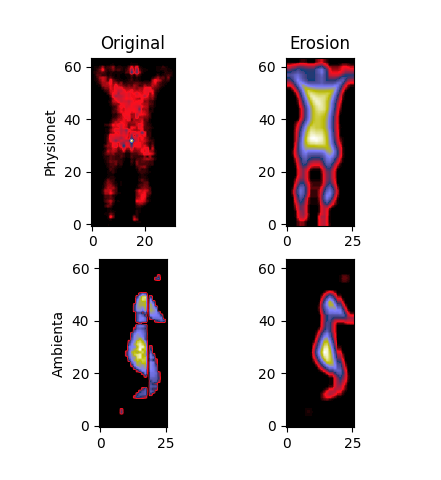
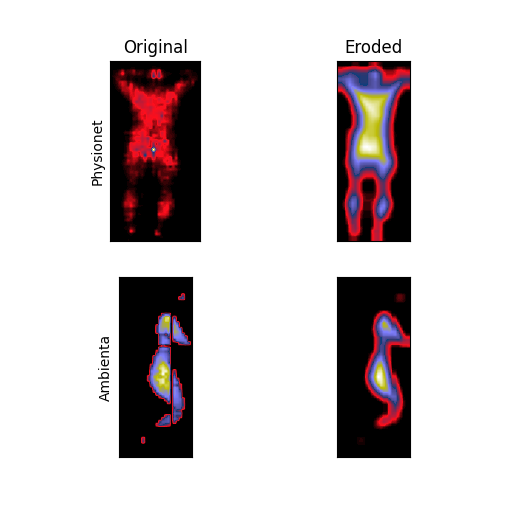
Update visualizations

diff --git a/visualizations.py b/visualizations.py
@@ -49,13 +49,13 @@ trans = [
 
 trans_labels = [
     "Original",
-    "Resize",
-    "Normalize",
-    "Equalize Histogram",
-    "Gaussian Blur",
-    "Erosion",
-    "Erosion",
-    "Erosion",
+    "Resized",
+    "Normalized",
+    "Equalized Histogram",
+    "Gaussian Blurred",
+    "Eroded",
+    "Eroded",
+    "Eroded",
 ]
 
 transform1 = torchvision.transforms.Compose(trans[:1])
@@ -70,11 +70,54 @@ num_plots_per_row = 4
 images_per_dataset = 1
 
 samples = [train_dataset1[128], train_dataset2[128]]
+
+# fig = plt.figure(figsize=(4, 2))
+# subfigs = fig.subfigures(1, 2, wspace=0)
+
+# subfigs[0].suptitle('Original', fontsize='x-large')
+# axsLeft = subfigs[0].subplots(2, 2)
+# # subfigs[0].set_facecolor('0.75')
+# # subfigs[0].colorbar(pc, shrink=0.6, ax=axsLeft, location='bottom')
+# for nn, row in enumerate(axsLeft):
+#     sample = samples[0 if nn == 0 else 1]
+#     if nn == 0:
+#         row[0].set_ylabel('Physionet')
+#     else:
+#         row[0].set_ylabel('Ambienta')
+#     transform = torchvision.transforms.Compose([])
+#     row[0].imshow(transform(sample)[0][0], origin="lower", cmap="gist_stern")
+#     row[0].set_xticks([], [])
+#     row[0].set_yticks([], [])
+#     if nn == 0:
+#         row[0].set_title("Image")
+#         row[1].set_title("Histogram")
+#     row[1].hist(transform(sample)[0][0].ravel(), bins=50, color="#777777")
+
+# subfigs[1].suptitle('Normalized Values', fontsize='x-large')
+# axsRight = subfigs[1].subplots(2, 2)
+# for nn, row in enumerate(axsRight):
+#     transform = torchvision.transforms.Compose(trans[:2])
+#     sample = samples[0 if nn == 0 else 1]
+#     row[0].imshow(transform(sample)[0][0], origin="lower", cmap="gist_stern")
+#     row[0].set_xticks([], [])
+#     row[0].set_yticks([], [])
+#     if nn == 0:
+#         row[0].set_title("Image")
+#         row[1].set_title("Histogram")
+#     row[1].hist(transform(sample)[0][0].ravel(), bins=50, color="#777777")
+
+# subfigs[1].set_facecolor('0.85') # Changes the background of the subfigure
+# subfigs[1].colorbar(pc, shrink=0.6, ax=axsRight)
+
+# fig.suptitle('Figure suptitle', fontsize='xx-large')
+
 fig, axs = plt.subplots(2, 2)
 for sample, row, row_nr in zip(samples, axs, range(len(axs))):
     for i, ax in enumerate(row):
         transform = torchvision.transforms.Compose(trans[:0 if i == 0 else 5])
         ax.imshow(transform(sample)[0][0], origin="lower", cmap="gist_stern")
+        ax.set_xticks([], [])
+        ax.set_yticks([], [])
         if row_nr == 0:
             ax.set_title(trans_labels[0 if i == 0 else 5])
         if i == 0 and row_nr == 0:

diff --git a/main.py b/main.py
@@ -12,10 +12,19 @@ from torch.utils.data import (
 
 from utils.dataset import PhysionetDataset, AmbientaDataset, classes
 from utils.model import ConvNet
-from utils.transforms import Blur, Close, Erode, ToTensor, Resize, Threshold, Normalize, EqualizeHist
+from utils.transforms import (
+    Blur,
+    Close,
+    Erode,
+    ToTensor,
+    Resize,
+    Threshold,
+    Normalize,
+    EqualizeHist,
+)
 from sklearn.metrics import confusion_matrix
 import pandas as pd
-from utils.plot_cm import plot_confusion_matrix
+from utils.plot_cm import plot_confusion_matrix, plot_class_weights
 
 ################
 #
@@ -63,15 +72,35 @@ print(f"Number of training samples: {len(train_dataset)}")
 print(f"Number of testing samples: {len(test_dataset)}")
 
 # Over- & Undersampling
-labels = np.concatenate([train_dataset.datasets[0].y, train_dataset.datasets[1].y])
-_, class_counts = np.unique(labels, return_counts=True)
-print(class_counts)
-print(class_counts.sum())
-weights = np.asarray([1.0 / class_counts[c] for c in labels])
+train_labels = np.concatenate(
+    [train_dataset.datasets[0].y, train_dataset.datasets[1].y]
+)
+test_labels = np.concatenate([test_dataset.datasets[0].y, test_dataset.datasets[1].y])
+_, train_class_counts = np.unique(train_labels, return_counts=True)
+_, test_class_counts = np.unique(test_labels, return_counts=True)
+
+plot_class_weights(
+    [
+        train_class_counts / train_class_counts.sum(),
+        test_class_counts / test_class_counts.sum(),
+    ],
+    classes,
+    [
+        "Training Data Class Weights",
+        "Test Data Class Weights",
+    ],
+)
+plt.show()
+
+print(train_class_counts / train_class_counts.sum())
+print(test_class_counts / test_class_counts.sum())
+print(train_class_counts.sum())
+print(test_class_counts.sum())
+weights = np.asarray([1.0 / train_class_counts[c] for c in train_labels])
 train_sampler = WeightedRandomSampler(
     weights=weights, num_samples=len(weights), replacement=True
 )
-
+exit()
 # train_size = int(train_size_percentage * len(dataset))
 # test_size = len(dataset) - train_size
 # train_dataset, test_dataset = random_split(dataset, [train_size, test_size])
@@ -160,7 +189,7 @@ with torch.no_grad():
         print(f"Accuracy of {classes[i]}: {acc:.4f}%")
 
     conf_mat = confusion_matrix(np.concatenate(lbllist), np.concatenate(predlist))
-    plt.figure(figsize=(10,10))
+    plt.figure(figsize=(10, 10))
     plot_confusion_matrix(conf_mat, classes, normalize=True)
     plt.show()
 

diff --git a/utils/plot_cm.py b/utils/plot_cm.py
@@ -3,26 +3,54 @@ import numpy as np
 import matplotlib.pyplot as plt
 
 # from https://deeplizard.com/learn/video/0LhiS6yu2qQ
-def plot_confusion_matrix(cm, classes, normalize=False, title='Confusion matrix', cmap=plt.cm.Blues):
+def plot_confusion_matrix(
+    cm, classes, normalize=False, title="Confusion matrix", cmap=plt.cm.Blues
+):
     if normalize:
-        cm = cm.astype('float') / cm.sum(axis=1)[:, np.newaxis]
+        cm = cm.astype("float") / cm.sum(axis=1)[:, np.newaxis]
         print("Normalized confusion matrix")
     else:
-        print('Confusion matrix, without normalization')
+        print("Confusion matrix, without normalization")
 
     print(cm)
-    plt.imshow(cm, interpolation='nearest', cmap=cmap)
+    plt.imshow(cm, interpolation="nearest", cmap=cmap)
     plt.title(title)
     plt.colorbar()
     tick_marks = np.arange(len(classes))
     plt.xticks(tick_marks, classes, rotation=45)
     plt.yticks(tick_marks, classes)
 
-    fmt = '.2f' if normalize else 'd'
-    thresh = cm.max() / 2.
+    fmt = ".2f" if normalize else "d"
+    thresh = cm.max() / 2.0
     for i, j in itertools.product(range(cm.shape[0]), range(cm.shape[1])):
-        plt.text(j, i, format(cm[i, j], fmt), horizontalalignment="center", color="white" if cm[i, j] > thresh else "black")
+        plt.text(
+            j,
+            i,
+            format(cm[i, j], fmt),
+            horizontalalignment="center",
+            color="white" if cm[i, j] > thresh else "black",
+        )
 
     plt.tight_layout()
-    plt.ylabel('True label')
-    plt.xlabel('Predicted label')
+    plt.ylabel("True label")
+    plt.xlabel("Predicted label")
+
+
+def plot_class_weights(weights_list, classes, legend_labels=[]):
+    legend_labels += [None] * len(weights_list)
+    bar_width = 0.8 / len(weights_list)
+    x = np.arange(len(classes))
+    for i, (weights, label) in enumerate(zip(weights_list, legend_labels)):
+        bar = plt.bar(x + i * bar_width, weights, bar_width)
+        if label:
+            bar.set_label(label)
+
+    plt.title("Relative Classes distribution")
+
+    print(x + bar_width / 2)
+    plt.xticks(x + bar_width / 2, classes, rotation=45)
+    plt.ylabel("Class Weight")
+    plt.tight_layout()
+
+    if legend_labels[0]:
+        plt.legend()
